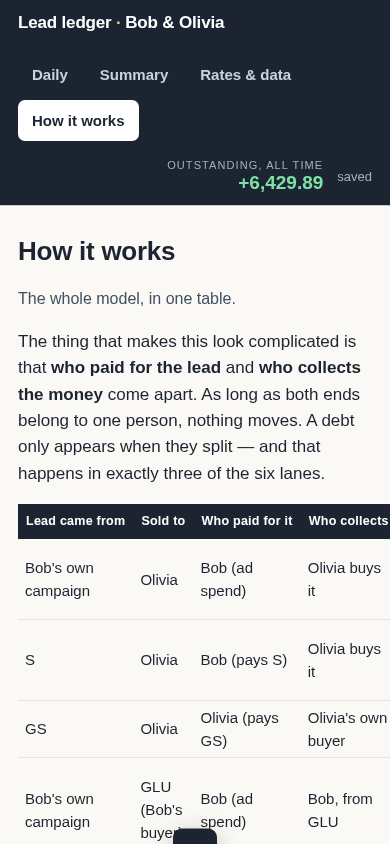
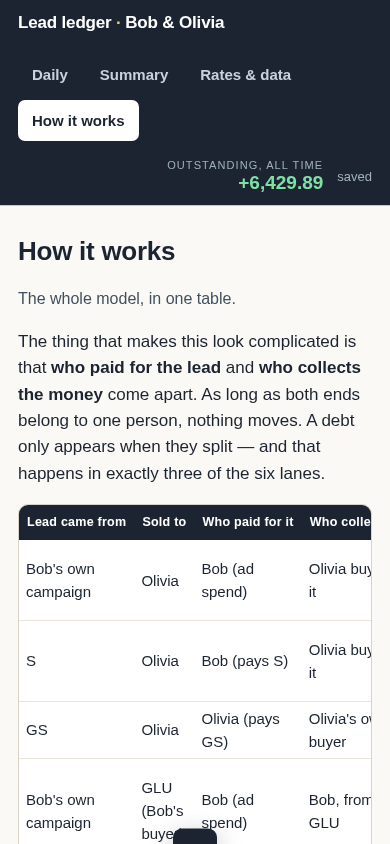
Don't count the blank starter row as data when loading the examples

diff --git a/index.html b/index.html
@@ -876,8 +876,15 @@ el('wipe').addEventListener('click', function(){
   if(!confirm('Backup downloaded. Delete everything now?')) return;
   S.days=[]; S.payments=[]; save(); renderDaily(); renderSummary(); toast('Ledger emptied.');
 });
+function isEmptyDay(d){
+  return !cnt(d.b)&&!cnt(d.c)&&!cnt(d.d)&&!cnt(d.e)&&!cnt(d.f)&&!cnt(d.g)&&
+         (d.amt===''||d.amt==null);
+}
 el('loadEx').addEventListener('click', function(){
-  if(S.days.length && !confirm('Add three example days to the '+S.days.length+' already here?')) return;
+  // the blank starter row is not "data" — don't make him confirm against it
+  var real = S.days.filter(function(d){ return !isEmptyDay(d); });
+  if(real.length && !confirm('Add three example days to the '+real.length+' already here?')) return;
+  S.days = real;
   S.rates.pbo=8; S.rates.pgsx=6; S.rates.ppanel=0; S.rates.gscost=6;
   [['2026-08-10',40,0,25,10,0,12,'','Bob','NO'],
    ['2026-08-11',0,35,18,0,8,20,'30','Bob','YES'],
